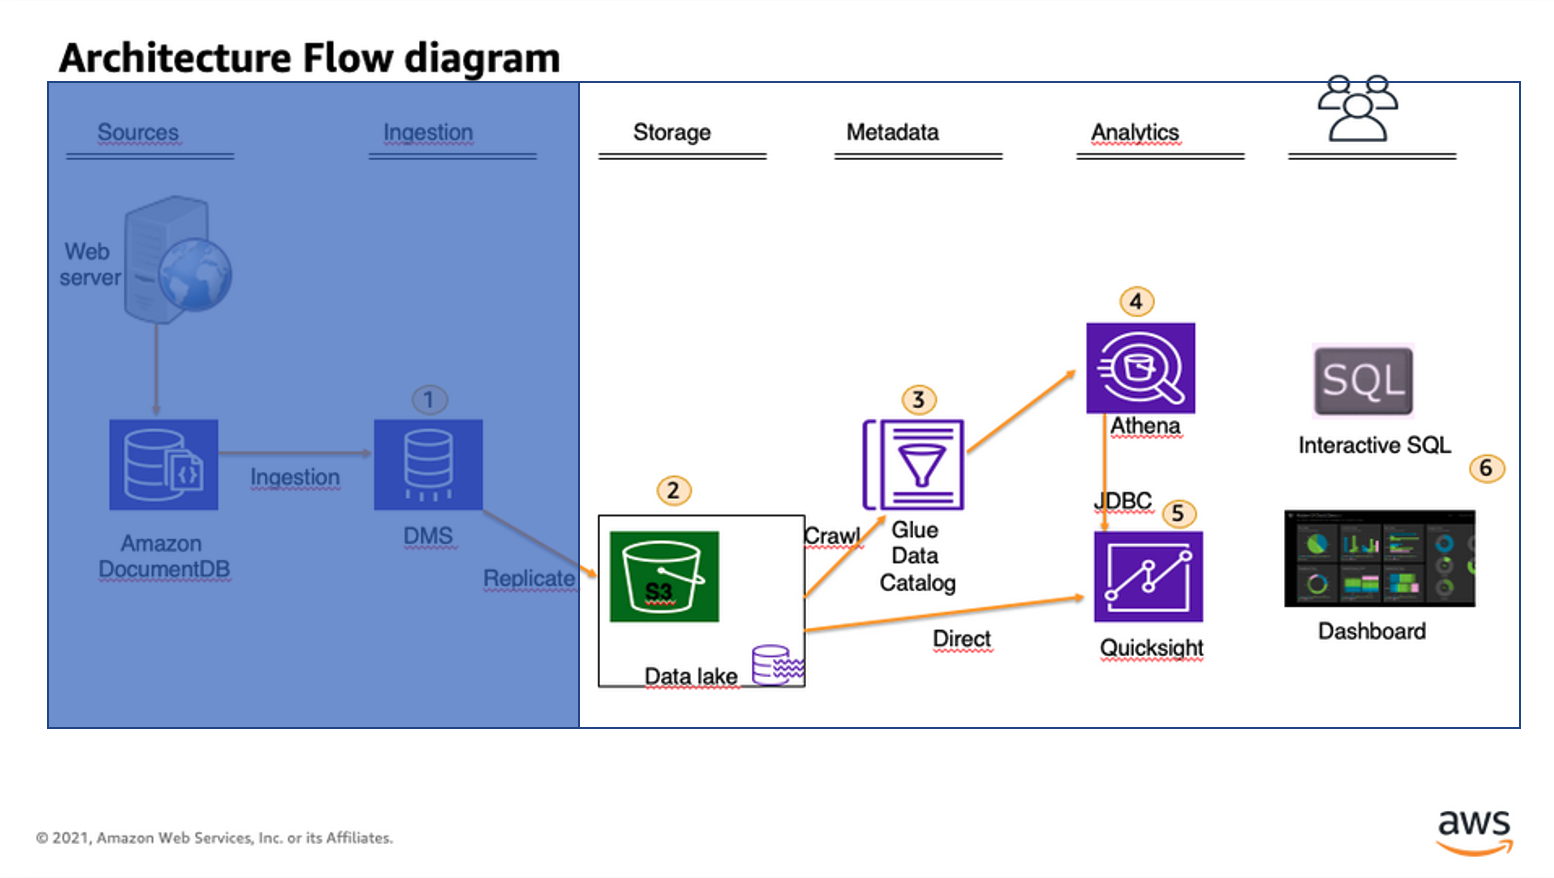
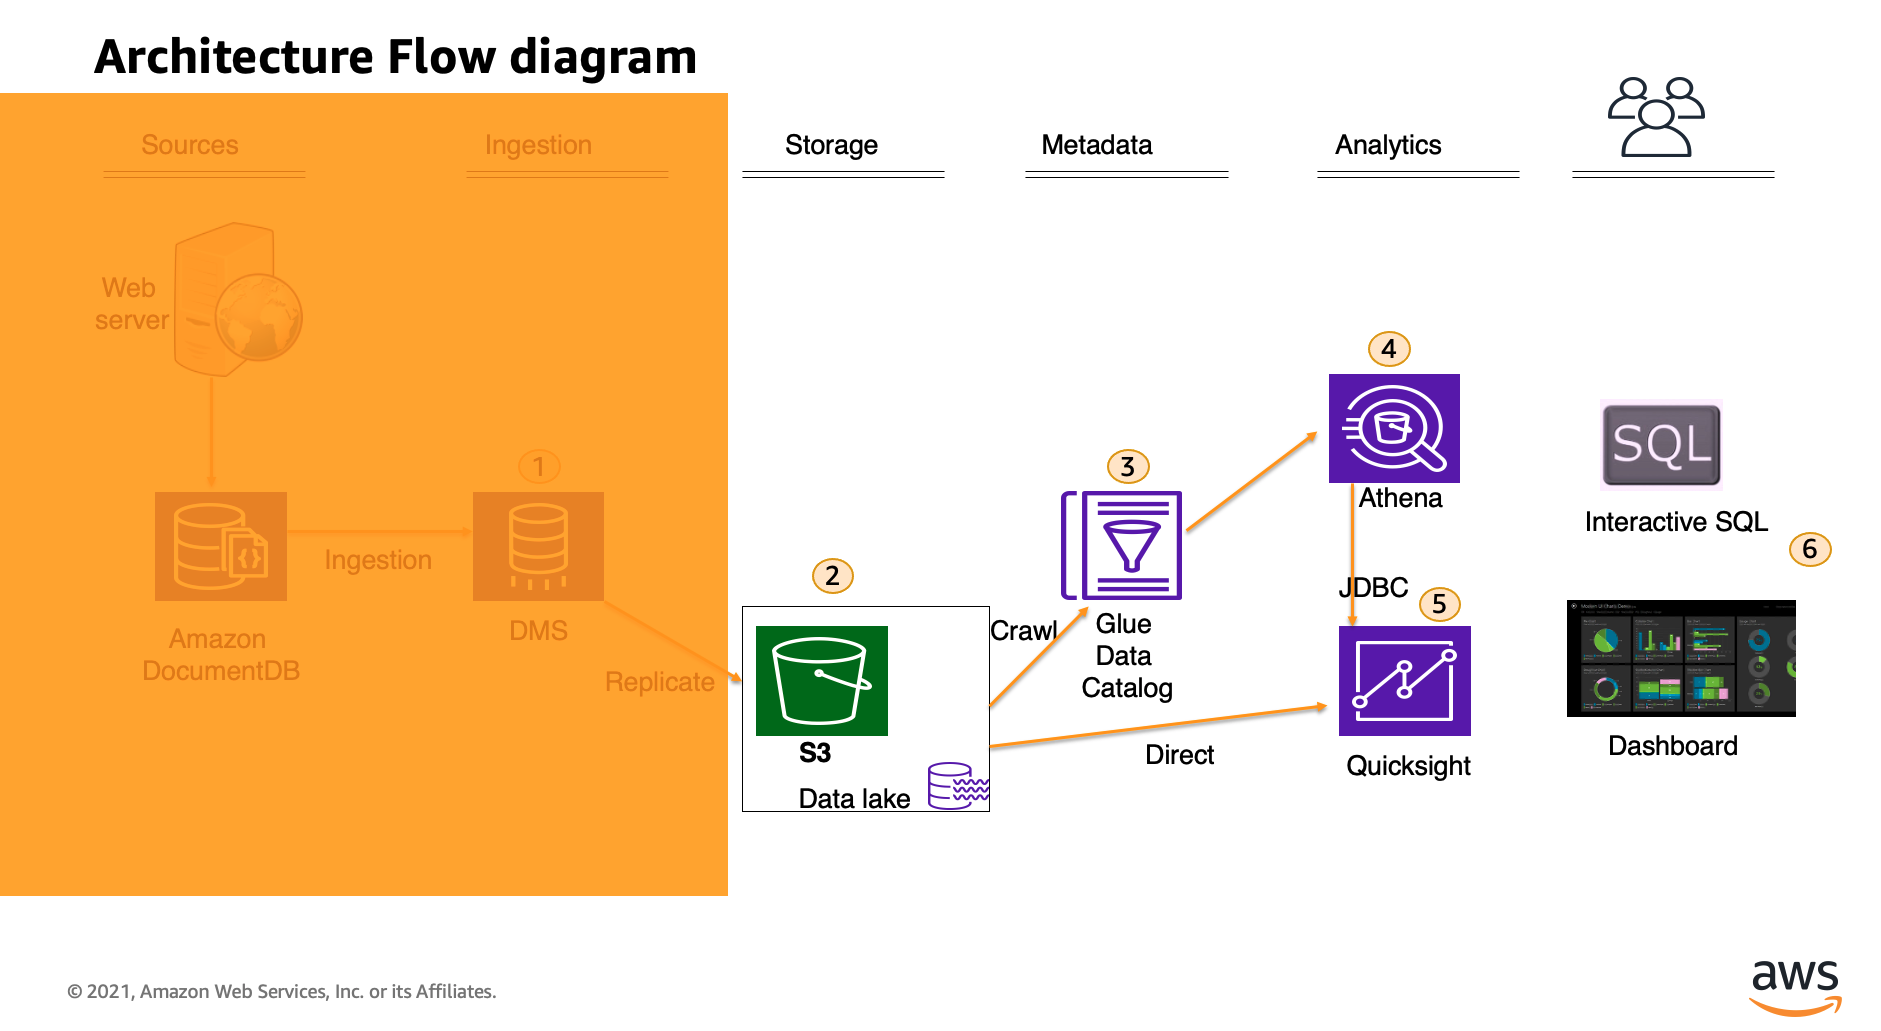
updated arch flow diagram and added for DMS lab as well

diff --git a/workshop/content/MigrateDocDbtoS3/_index.md b/workshop/content/MigrateDocDbtoS3/_index.md
@@ -4,7 +4,8 @@ date = 2021-03-17T18:13:14-04:00
 weight = 10
 chapter = true
 +++
-
+Lab architecture flow is as below:
+{{< img "dms_lab_arch.png" "dms lab arch" >}}  
 #### Let's connect to DocumentDB cluster and prepare the data
 1. Navigate to [CloudFormation](https://us-east-2.console.aws.amazon.com/cloudformation/home?region=us-east-2). 
 2. Click on the stack(mod-XXXXXXX) and then the outputs tab.
